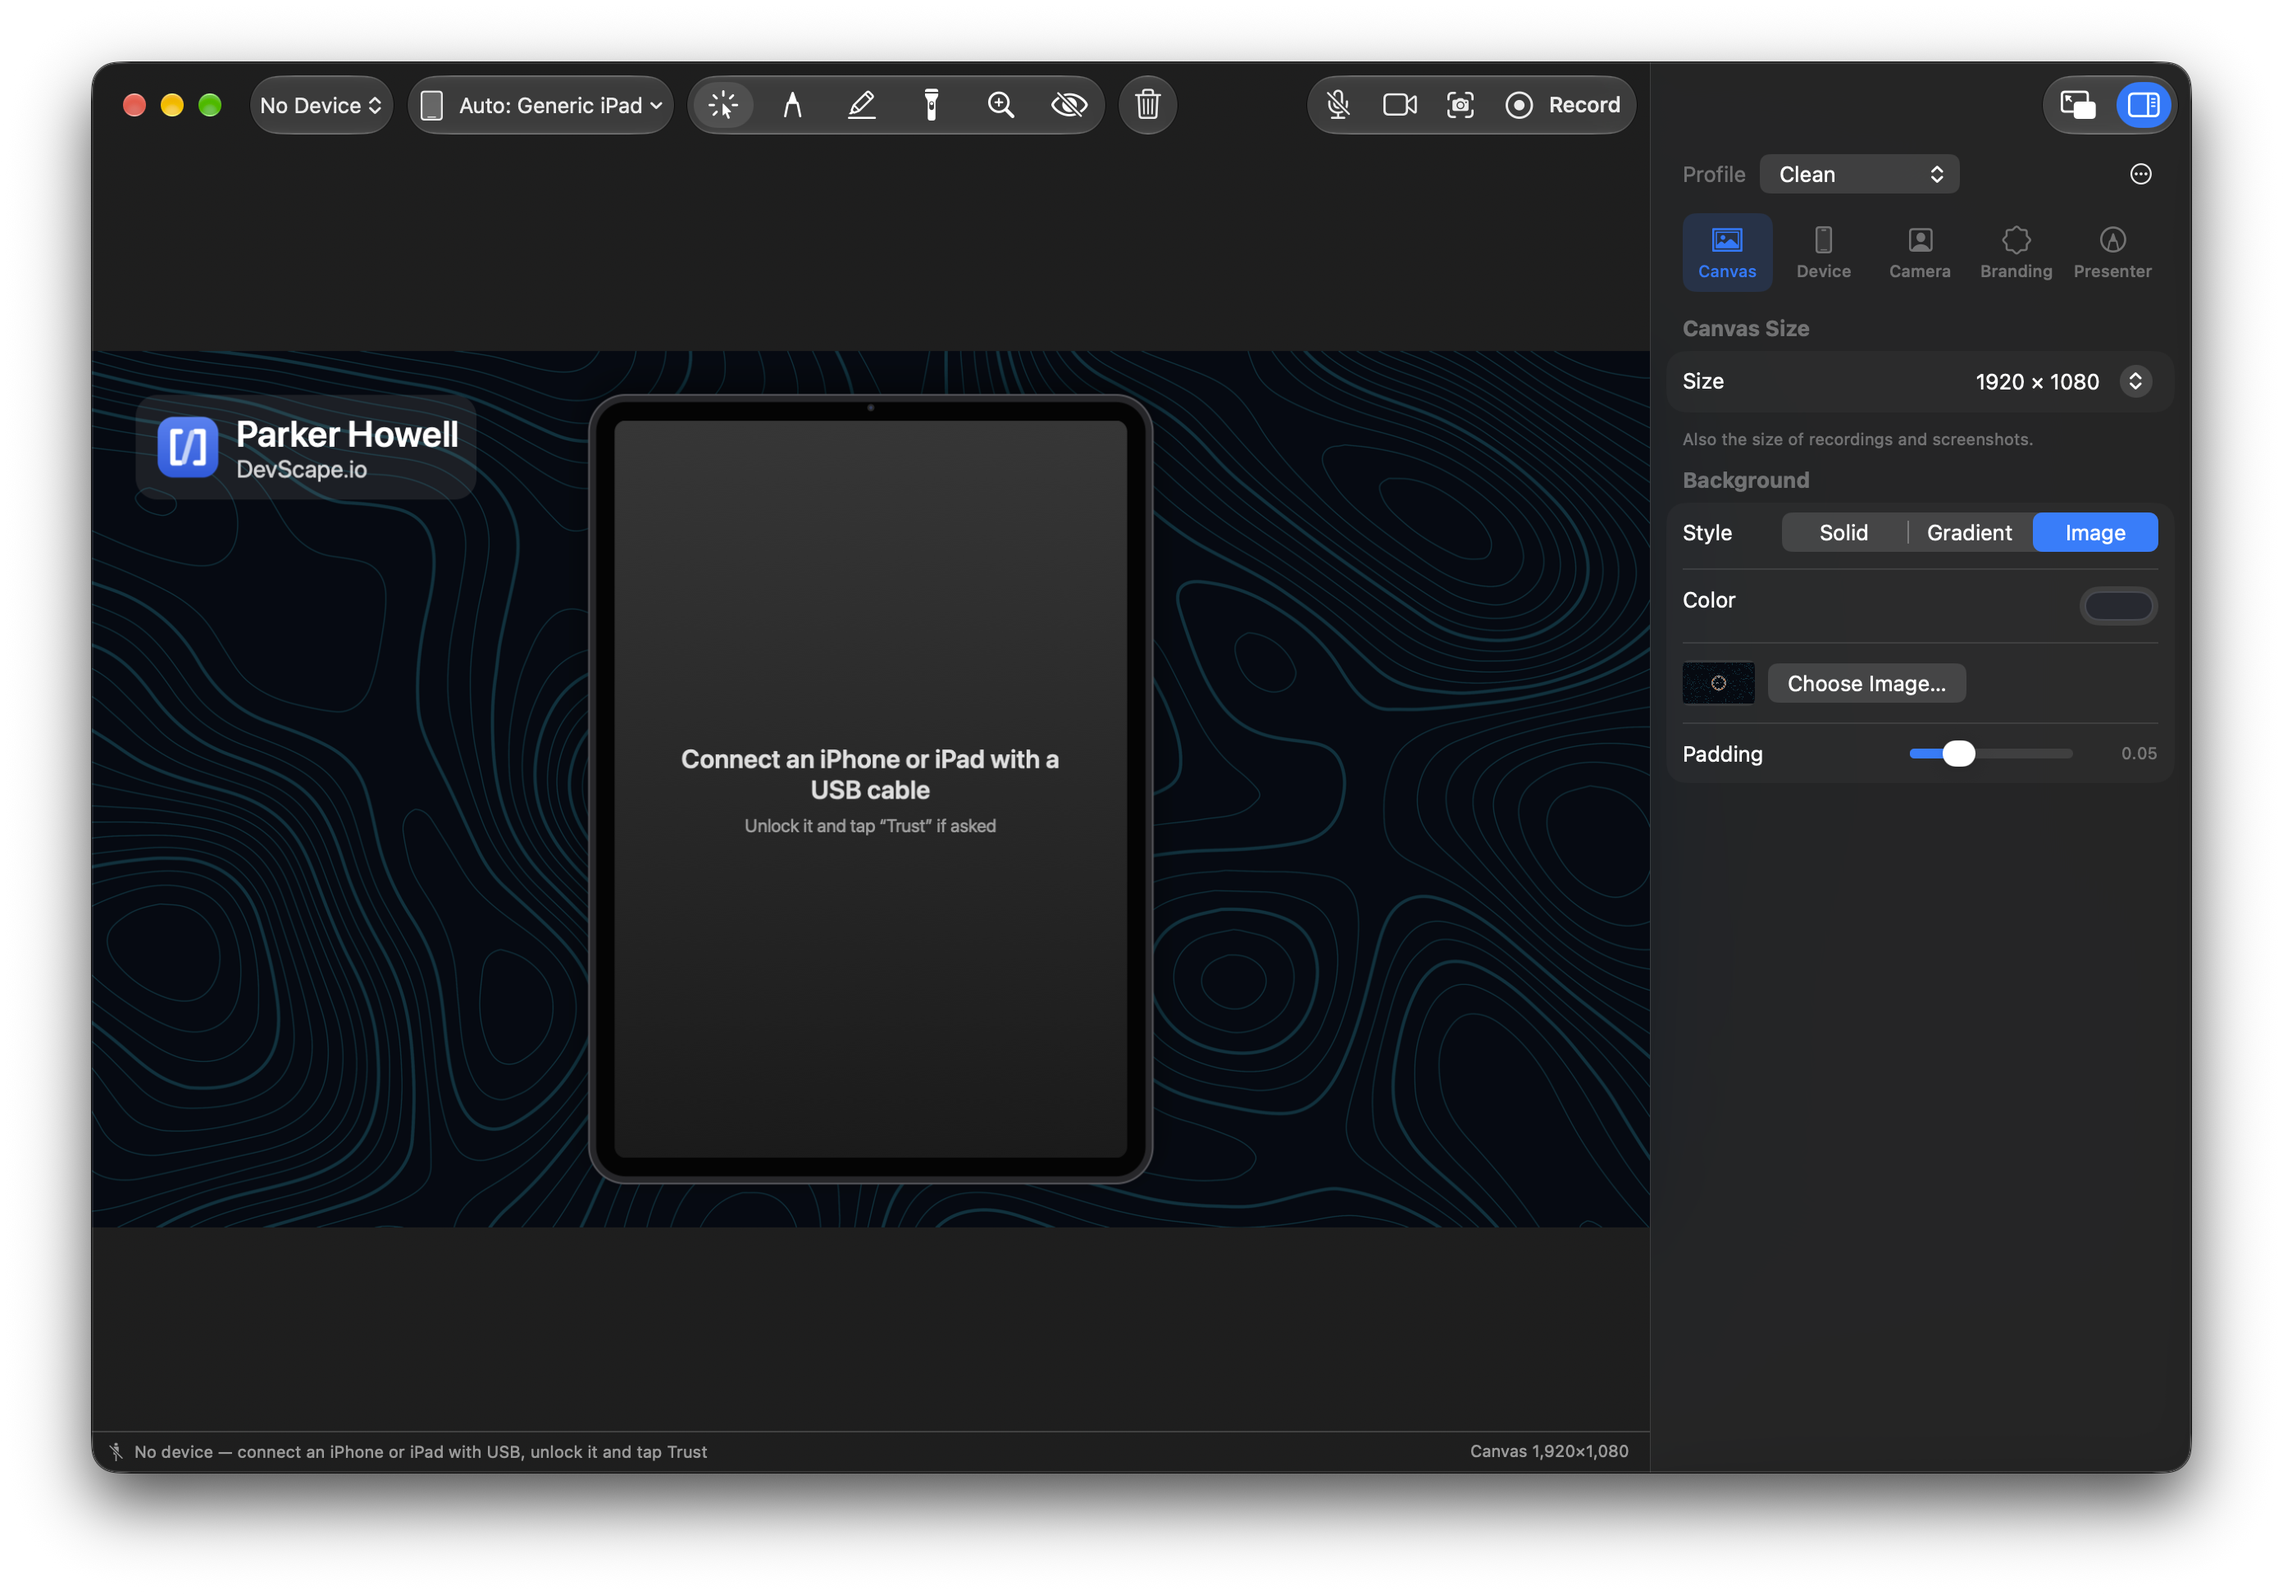
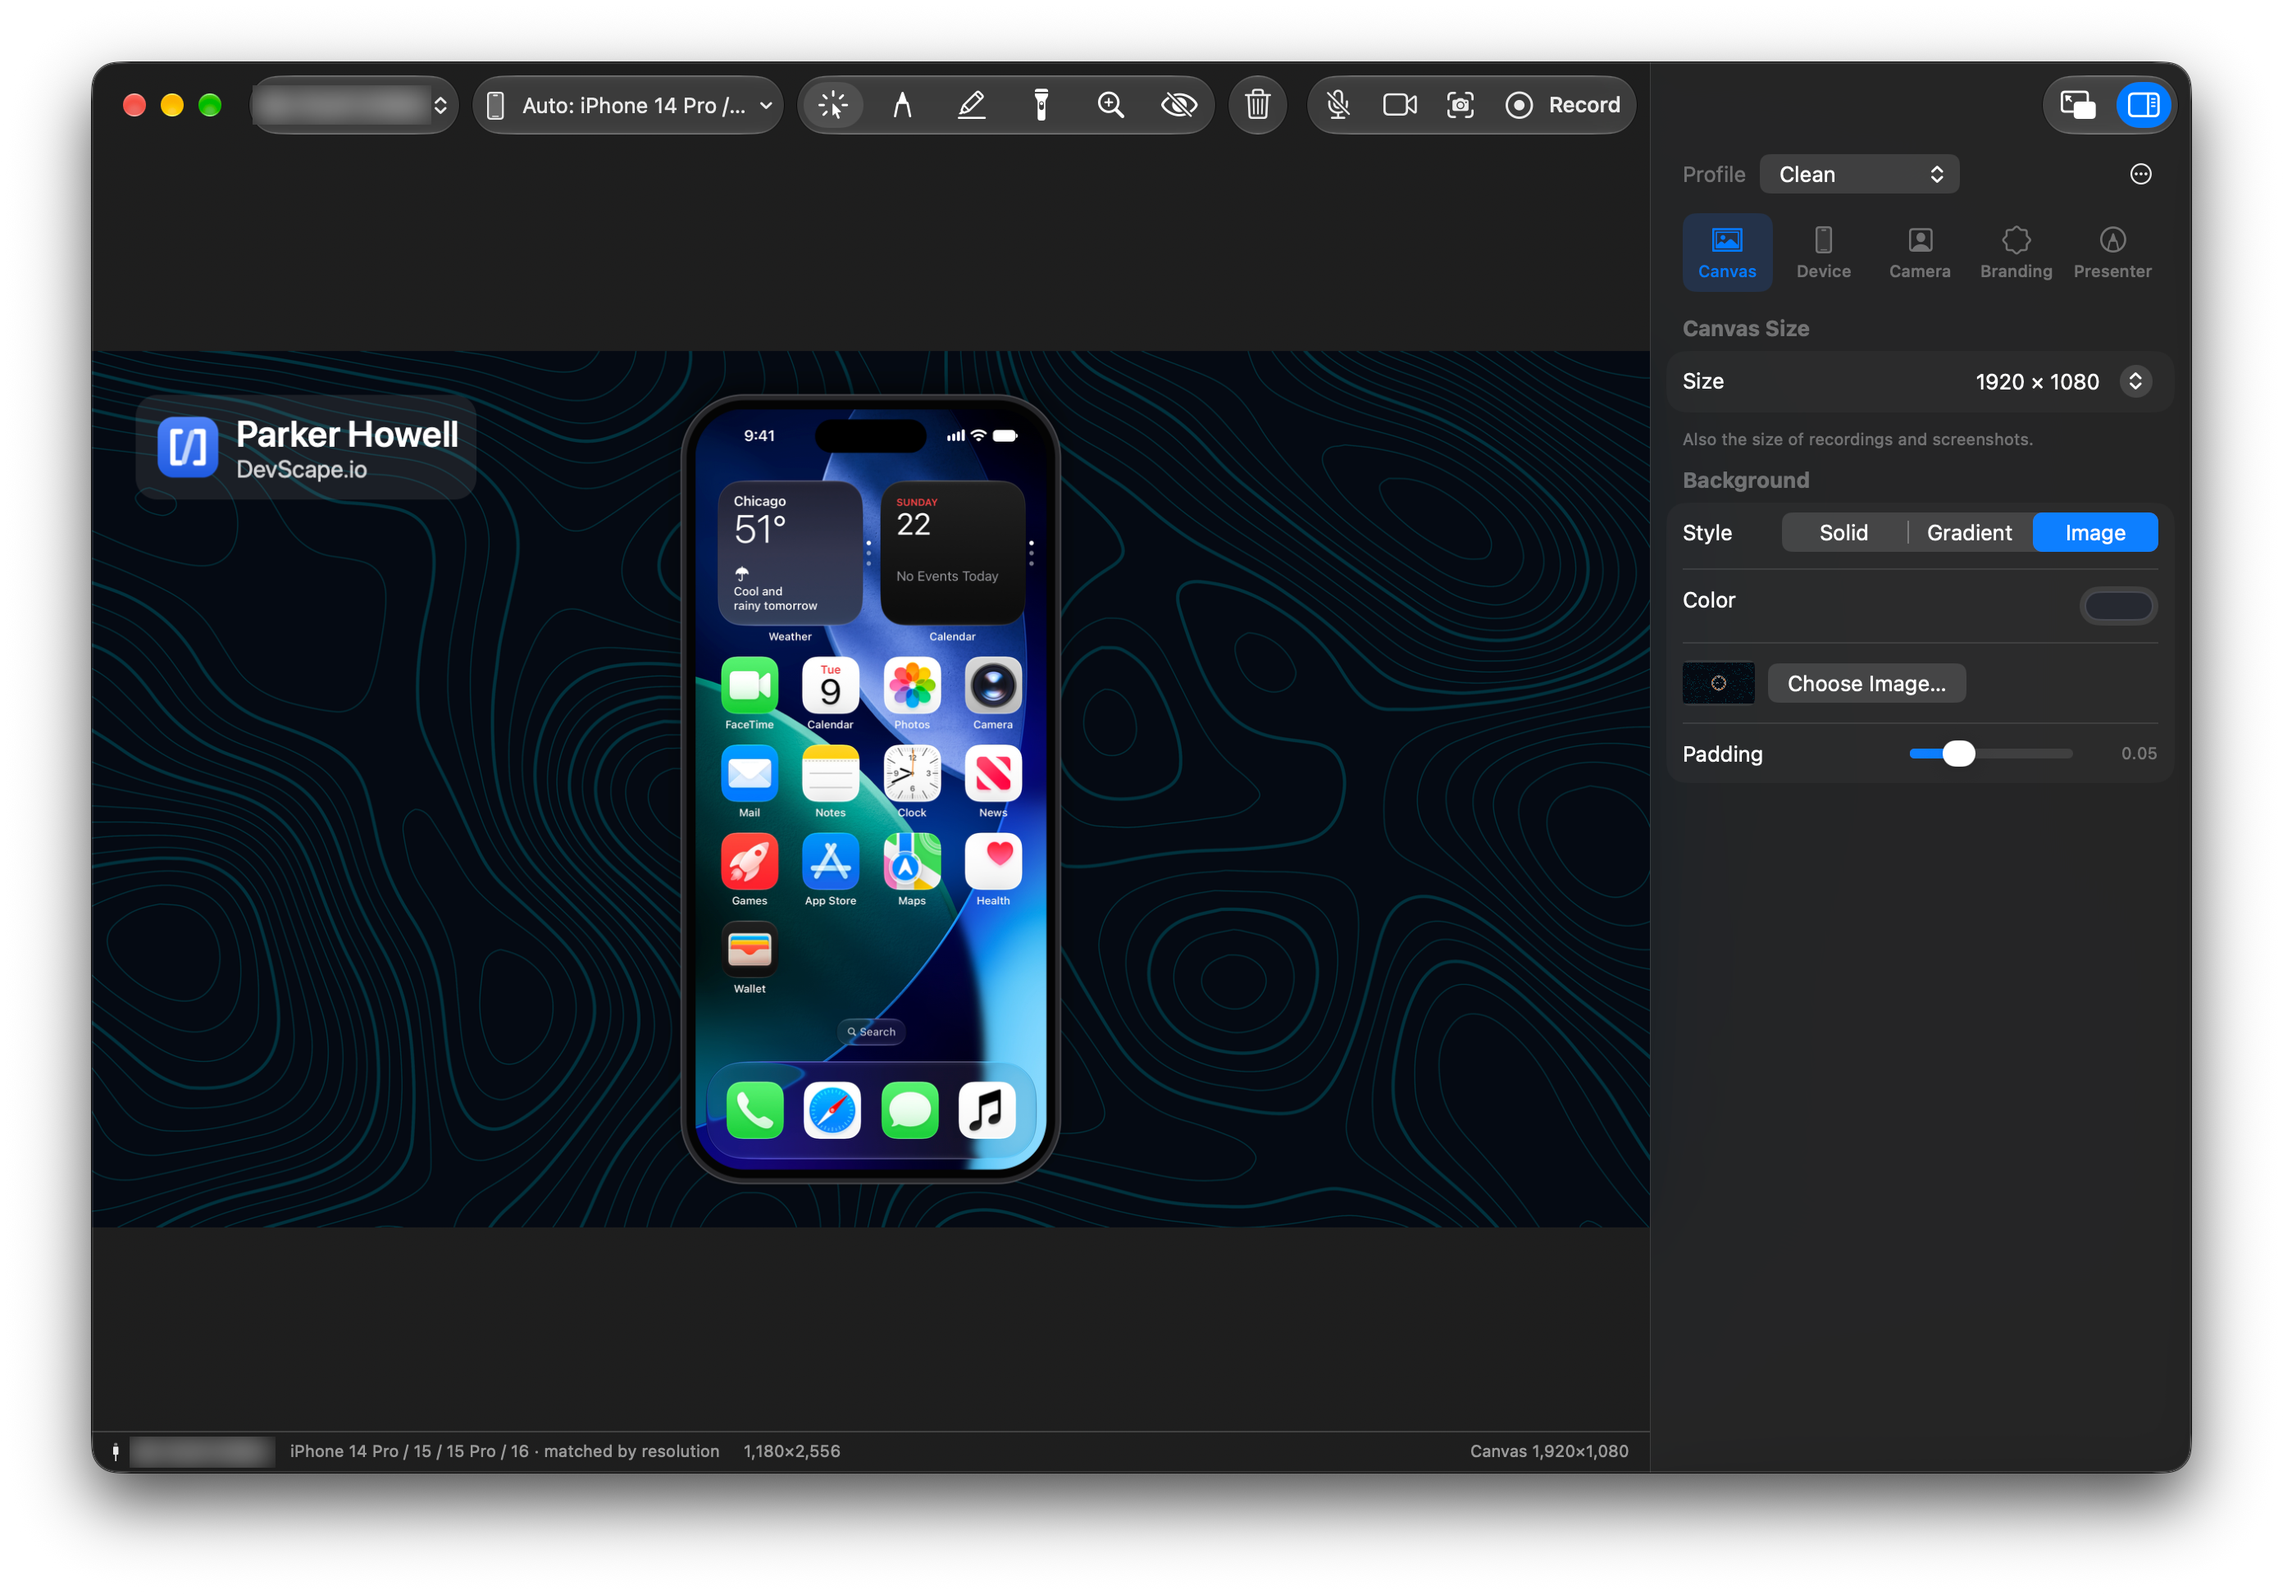
Retake the README screenshot with a device and add the output window

diff --git a/README.md b/README.md
@@ -3,7 +3,14 @@
 FrameCast is a native macOS app (Swift and SwiftUI, macOS 14 or later) that mirrors an iPhone or iPad connected by USB, the same way QuickTime does. It shows the device inside a realistic frame on a branded canvas, and it can record video, take screenshots and act as a virtual webcam. Confidentiality overlays can be burned into any of those outputs.
 
 <p align="center">
-  <img src="Design/Promo/hero.png" alt="FrameCast's main window: an iPad frame on a branded canvas with a presenter nameplate, and the settings inspector open beside it" width="900">
+  <img src="Design/Promo/hero.png" alt="FrameCast's main window: an iPhone mirrored inside a device frame on a branded canvas with a presenter nameplate, and the settings inspector open beside it" width="900">
+</p>
+
+<p align="center">
+  <img src="Design/Promo/output-canvas.png" alt="The separate output window showing the full canvas" height="360">
+  <img src="Design/Promo/output-frame-only.png" alt="The separate output window in Frame Only mode: just the framed iPhone" height="360">
+  <br>
+  <em>The separate output window, as the full canvas and as Frame Only.</em>
 </p>
 
 ## Features
@@ -120,7 +127,7 @@ iPhone/iPad ─USB─► CoreMediaIO (screen-capture devices on) ─► AVCaptur
 | `Sources/CameraExtension` | The camera system extension (source and sink streams) |
 | `Sources/App/Assets.xcassets` | The app icon |
 | `Design/AppIcon` | Vector and 1024 px masters for the app icon |
-| `Design/Promo` | The screenshot shown at the top of this README |
+| `Design/Promo` | The screenshots shown at the top of this README |
 | `Generated/` | Info.plists and entitlements written by XcodeGen; not checked in |
 
 `FrameCast.xcodeproj` is generated too. After adding, moving or removing files, run `./bootstrap.sh` (or `xcodegen generate`) to rebuild it.
